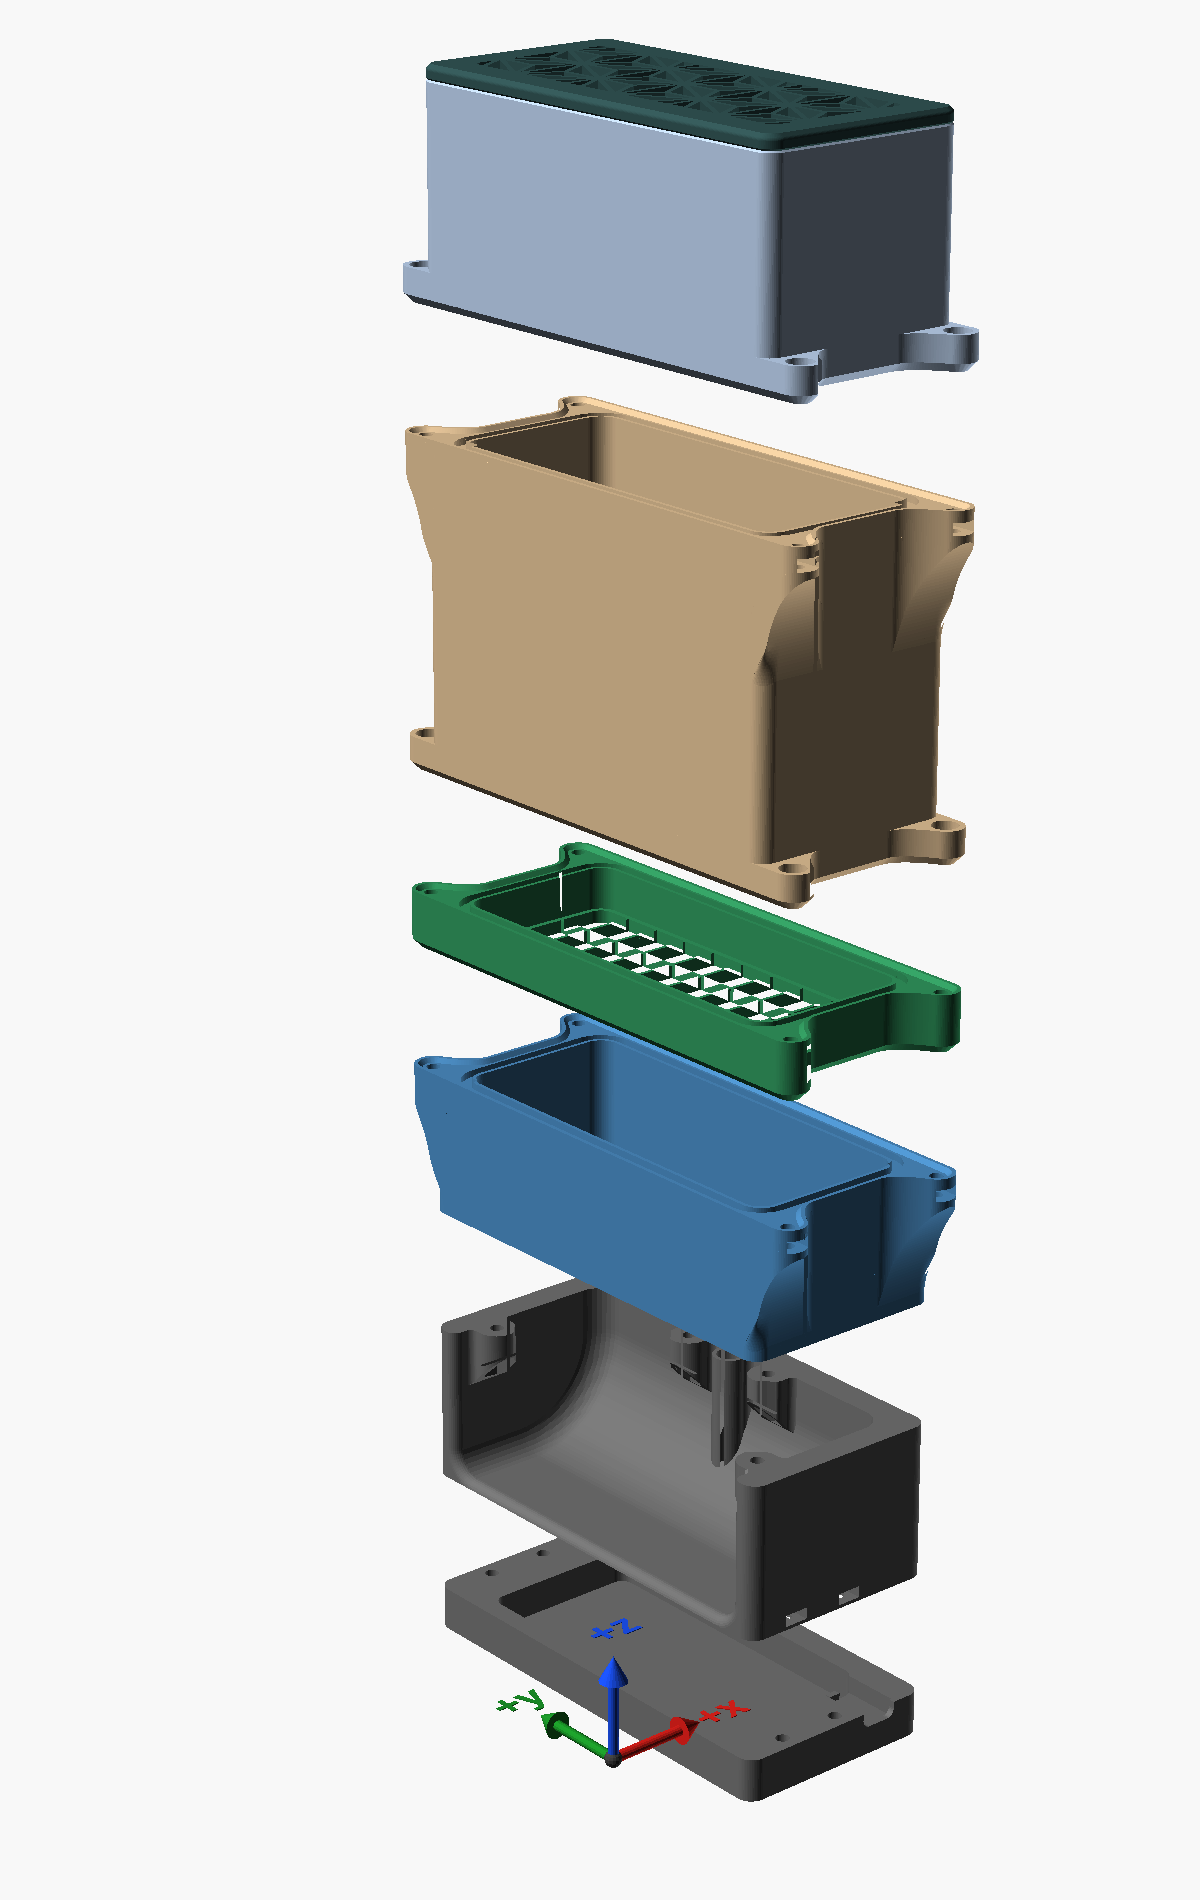
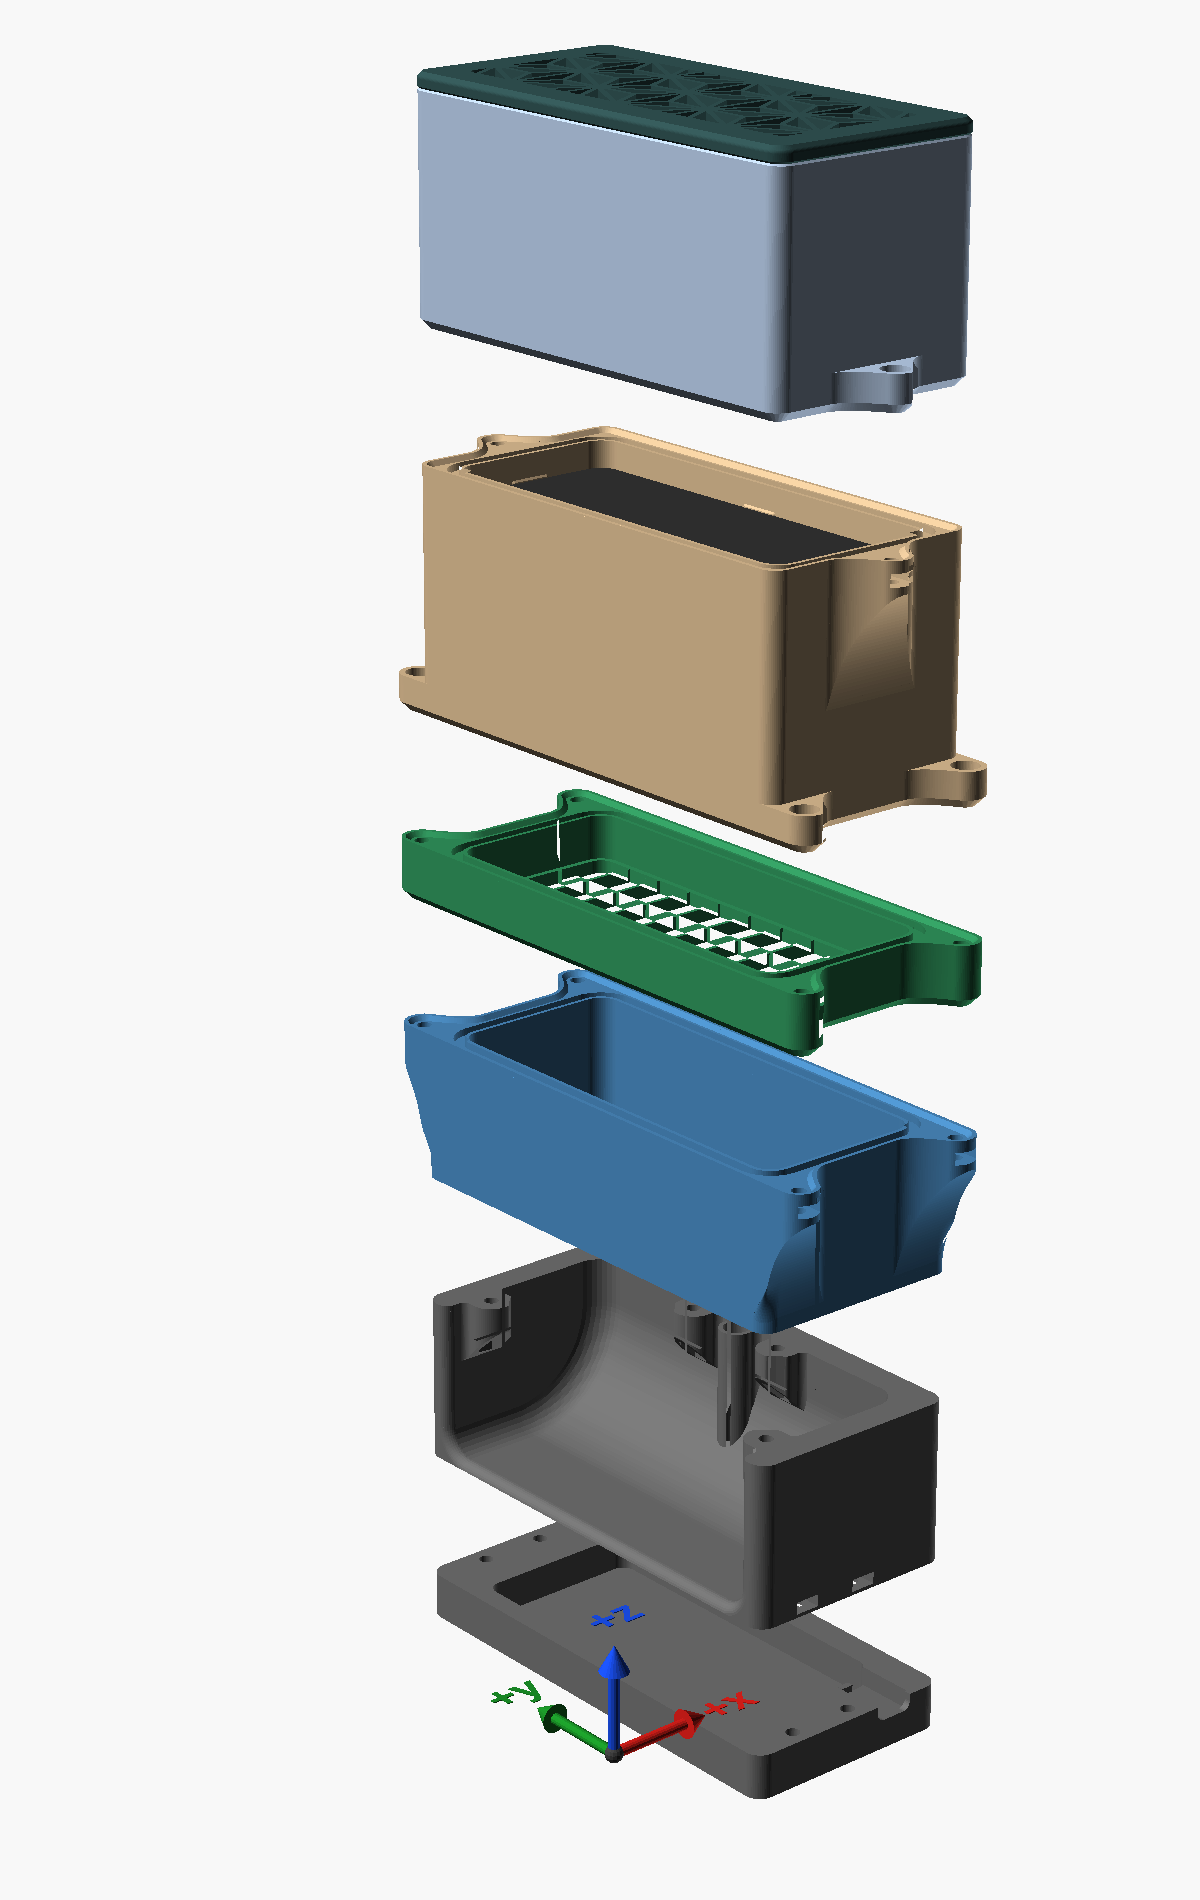
feat(bentobox): one top screw per end, a hex driver, a lower housing
D147: the top joint, the HEPA holder on the carbon housing, has one
screw in the middle of each end (top_tabs = "middle"), the corner tab's
boss and parabola moved to the middle; the lower joints keep their
corner tabs. Nothing now stands over the lower screws' heads, so the
carbon housing is 55 mm tall instead of 77.6 and the box 22.6 mm lower.

Q148: the screws are turned with a 2.5 mm hex screwdriver.
check_seal_access stands one on every head - a 75 mm blade, a 30 mm
handle - the lower screws' before the HEPA holder is on; its controls put
the top tabs back at the corners and shorten the blade to 30 mm.

The middle-tab collar shared the outline's corner round point for
point, and the housing's own top chamfer crossed the cut under it: the
tab band now adds only the tabs' zone, the outline's prism stops where
the collar starts, and the housing is drawn 1 mm past both cut faces.
The joint sample, sliced off the parts, now takes one screw and one nut.

Changed region(s): [[0.3083, 0.0, 0.8325, 0.9316], [0.5858, 0.9316, 0.6475, 0.9626]]

diff --git a/scripts/bentobox-checks.py b/scripts/bentobox-checks.py
@@ -86,7 +86,8 @@ CONTROLS = [
     ("check_auto_wires", [("wire_shift", "1.5")], "the wires moved 1.5 mm off the tube"),
     ("check_auto_air", [("post_clear_air", "false")], "the fan screws' posts left round, under the fans' openings"),
     # The sealed joints. collar_play narrows the upper parts' chamfers, not the collars; bead_side the grooves,
-    # not the beads; bracket_h reaches the carbon housing's top brackets down over the section's screws.
+    # not the beads. The top joint's tabs back at the corners stand over the lower joints' screws; a short blade
+    # brings the driver's handle down against the HEPA holder.
     ("check_seal_j1", [("collar_play", "-0.4")], "the section's chamfer cut back less than the fan section's collar"),
     ("check_seal_j2", [("collar_play", "-0.4")], "the carbon housing's chamfer, against the section's collar"),
     ("check_seal_j3", [("collar_play", "-0.4")], "the HEPA holder's chamfer, against the carbon housing's collar"),
@@ -94,7 +95,8 @@ CONTROLS = [
     ("check_seal_screws", [("screw_shift", "[1, 0]")], "the joints' screws moved 1 mm off their holes"),
     ("check_seal_nuts", [("nut_fit", "-0.3")], "the joints' nut slots made narrower and lower than a nut"),
     ("check_seal_nut_ways", [("nut_slot_out", "1")], "the joints' nut slots cut short of the tabs' ends"),
-    ("check_seal_access", [("bracket_h", "80")], "the carbon housing's brackets reaching down over the section's screws"),
+    ("check_seal_access", [("top_tabs", '"corners"')], "the top joint's tabs back at the corners, over the lower screws' heads"),
+    ("check_seal_access", [("driver", "[4, 30, 30]")], "a 30 mm blade: the driver's handle down against the HEPA holder"),
     # A missing original makes every intersection empty, which reads as a pass: its import's WARNING must fail it.
     ("check_section_carbon", UNSEALED + [("carbon_stl", '"original/missing.stl"')], "the housing's STL missing - must be reported, not passed"),
     ("check_cover_holder", [("hepa_in_grow", "-0.5")], "the HEPA holder's inside made narrower than the cover's plug"),

diff --git a/docs/bentobox-scrubber.md b/docs/bentobox-scrubber.md
@@ -12,8 +12,9 @@ the electronics, drawn from scratch to the Auto's measurements, with a tube down
 where the Auto has heat-set inserts, and a USB-C socket for its 12 V. The bay is a tray of its own, screwed on
 underneath.
 
-**Its joints under suction are sealed** (see *The sealed joints*): a TPU bead in a groove at each, and four
-screws in tabs at the corners, where the original has magnets.
+**Its joints under suction are sealed** (see *The sealed joints*): a TPU bead in a groove at each, and screws
+in tabs where the original has magnets - four at the corners for each of the two lower joints, one in the middle of
+each end for the top one - all turned with a hex screwdriver.
 
 **Its carbon is a bed in the housing** (see *The carbon*): the pellets poured onto the housing's floor, a
 honeycomb across its whole inside, 45 mm deep. The C-MAG stays an option.
@@ -63,10 +64,9 @@ holder off, 45 mm deep, to the mark in the middle of each inside wall - 184 cm³
 level them: the air takes the thinner side of a bed. To change them, the housing comes off the stack, its four
 M3 × 25 out, and tips out.
 
-**The housing keeps its height for now.** 6 mm of air over the bed is enough for the air from the HEPA holder's
-ledge to spread over it, which would make the housing 55 mm tall instead of 77.6 and the box 22.6 mm lower. But the
-joint's lower screws stand under the housing's own top tabs, and the brackets under those come down over their
-heads: lower, there is no room left to turn them (D147, open).
+**The housing is 55 mm tall**, where the original's is 77.6, so the box stands 22.6 mm lower: 6 mm of air over
+the bed is enough for the air from the HEPA holder's ledge to spread over it. It can be, because the top joint's
+screws are in the middle of each end (D147), clear of the lower joints' screws at the corners.
 
 **Why not the C-MAG.** The same airflow models as for the paper's pleats (see *How many pleats*), with the clamp at
 18 pleats and the middle grade:
@@ -242,39 +242,41 @@ housing are sealed:
   the tabs too, its inner face at 45 degrees; the upper part's bottom edge, tabs and all, is cut back at 45
   degrees to sit in it, 0.2 mm clear. It centres the parts, and it is a second barrier outside the bead. Both
   print without support.
-- **Four tabs and screws, where the magnets were.** At each corner a tab stands 9.4 mm past the end wall.
+- **Tabs and screws, where the magnets were.** The two lower joints have a tab at each corner; the top joint,
+  the HEPA holder on the carbon housing, one in the middle of each end (Alon, 9 Oct 2026: D147), so nothing stands
+  over the lower joints' screws, which go in first. Each tab stands 9.4 mm past the end wall.
   The tabs are seamless with the walls and floors: each part's outline is one shape, tabs and all, so a
-  tab's side runs straight on from the side face, its outline leaves the end wall along a parabola, tangent
-  to it, and its floor or top is the part's own. For that the originals' outsides are cut 0.05 mm inside
+  corner tab's side runs straight on from the side face, a tab's outline leaves the end wall along a parabola,
+  tangent to it - on both sides of a middle tab - and its floor or top is the part's own. For that the originals' outsides are cut 0.05 mm inside
   their own faces, a quarter of a layer, and their floors and tops at a sealed joint likewise. Under each
   nut's tab, a bracket whose face is a cubic in its height: tangent to the wall at its foot, 45 degrees at
-  the tab, so it prints without support. In the rounded corner under the tab it fills the corner smoothly,
-  so the side face runs on into the bracket's side. The fan section is shorter than a bracket, so its
+  the tab, so it prints without support. In the rounded corner under a corner tab it fills the corner
+  smoothly, so the side face runs on into the bracket's side. The fan section is shorter than a bracket, so its
   brackets run down to its bottom. Each nut slides in from the tab's end.
-- **The screws.** Four M3 × 12 through the HEPA holder's tabs into nuts in the carbon housing's. Four
+- **The screws.** Two M3 × 12 through the HEPA holder's tabs into nuts in the carbon housing's. Four
   M3 × 25 through the carbon housing's bottom tabs and pillars in the section into nuts in the fan
   section's: one screw at each corner holds both of the section's joints. Each head sinks flush into a
   counterbore in its tab, 0.2 mm under the top: the upper parts' tabs stand 8.2 mm, 5 mm of it under the
-  head.
+  head. They are socket heads, turned with a 2.5 mm hex screwdriver (Q148).
 
 ![The sealed joints pulled apart: the fan section, the section, the carbon housing and the HEPA holder, a bead ring over each lower part's groove, the screws](bentobox/joints.png)
 
 **Putting it together:** a bead ring in the groove on the fan section, the section and the carbon housing;
 a nut in each tab of the fan section and the carbon housing; the section on the fan section, the carbon
-housing on the section, and the four M3 × 25 down through them. The carbon housing's own top tabs and
-brackets stand over those screws; the checks keep at least 35 mm clear above each head, room to set the
-screw in, but not for a long straight driver: turn them with a hex key. Then the HEPA holder on the carbon
-housing and its four M3 × 12, and the cover on its magnets.
+housing on the section, and the four M3 × 25 down through them, with a 2.5 mm hex screwdriver, straight down:
+nothing stands over them. Then the HEPA holder on the carbon housing and its two M3 × 12, and the cover on its
+magnets. The checks stand a screwdriver with a 75 mm blade and a 30 mm handle on every head, straight up, the lower
+screws' before the HEPA holder is on, and find nothing in its way.
 
 The sheet in the section, the carbon and the HEPA come out by the same screws. Only the cover's joint keeps
 magnets: four in the HEPA holder's top and four in the cover.
 
 **Try one end first.** The bead's size and the seat's fit are first guesses, and the carbon housing is a
-7-hour print. The joint sample is one end of the joint between the carbon housing and the HEPA holder, sliced
-off the parts themselves: the carbon housing's top 12 mm, with its two nut tabs, and the HEPA holder's bottom
-10 mm, with its two counterbored tabs, 30 mm in from the end wall. With them on the plate is a block holding
-one fan nut's pocket as the base has it. Lay the TPU bead in the lower piece's groove, a nut in each tab, set
-the upper piece on in its collar and drive the two M3 × 12: the faces should come together on the bead,
+6-hour print. The joint sample is one end of the joint between the carbon housing and the HEPA holder, sliced
+off the parts themselves: the carbon housing's top 12 mm, with its nut tab, and the HEPA holder's bottom
+10 mm, with its counterbored tab, 30 mm in from the end wall. With them on the plate is a block holding
+one fan nut's pocket as the base has it. Lay the TPU bead in the lower piece's groove, the nut in its tab, set
+the upper piece on in its collar and drive the M3 × 12: the faces should come together on the bead,
 pressing it down, the chamfer should sit in the collar, and each head should end flush. Pull a nut into the
 block's seat with an M3 × 8 and take the screw out: the nut should stay.
 
@@ -398,15 +400,15 @@ samples-tpu` for the two sample plates.
 | Base | ASA | 1 | 3 h 25 m | 36 g |
 | Fan section | ASA | 1 | 3 h 42 m | 36 g |
 | Tray | ASA | 1 | 1 h 47 m | 20 g |
-| Carbon housing | ASA | 1 | 8 h 26 m | 76 g |
-| HEPA holder | ASA | 1 | 4 h 39 m | 45 g |
+| Carbon housing | ASA | 1 | 6 h 22 m | 57 g |
+| HEPA holder | ASA | 1 | 4 h 32 m | 44 g |
 | Cover | ASA | 1 | 1 h 53 m | 13 g |
 | Bead ring | TPU 95A | 3 | 9 m each | 1 g each |
-| Joint sample | ASA | 1 plate | 1 h 15 m | 11 g |
+| Joint sample | ASA | 1 plate | 1 h 7 m | 10 g |
 | Joint sample's bead | TPU 95A | 1 | 3 m | under 1 g |
 | Grommet | TPU 95A | 2 halves | 2 m | under 1 g |
 | Bottom sample | ASA | 1 plate | 45 m | 7 g |
-| Samples, ASA | ASA | 1 plate | 3 h 12 m | 26 g |
+| Samples, ASA | ASA | 1 plate | 3 h 5 m | 25 g |
 | Samples, TPU | TPU 95A | 1 plate | 5 m | under 1 g |
 
 Times and weights are PrusaSlicer's, at 0.2 mm with the house profile `0.2mm QUALITY @MK3 - no skirt, no
@@ -425,15 +427,16 @@ For the sealed joints:
 
 | Quantity | Item |
 |---|---|
-| 8 | M3 hex nut, ISO 4032 |
+| 6 | M3 hex nut, ISO 4032 |
 | 4 | M3 × 25 socket head cap screw, ISO 4762: the carbon housing and the section to the fan section |
-| 4 | M3 × 12 socket head cap screw, ISO 4762: the HEPA holder to the carbon housing |
+| 2 | M3 × 12 socket head cap screw, ISO 4762: the HEPA holder to the carbon housing |
 | 8 | 4 × 2 mm magnet: the cover's joint, four in the HEPA holder and four in the cover |
 
 With the C-MAG: 8 more 4 × 2 mm magnets, four in each half. Its parts, in ASA: the tray 2 h 16 m and 25 g, the
 lid 1 h 49 m and 21 g, the four grills on one plate 1 h 51 m and 11 g.
 
-For the joint sample, from the same stock: 3 M3 nuts, 2 M3 × 12 and 1 M3 × 8. For the bottom sample: 2 M3 nuts,
+For the joint sample, from the same stock: 2 M3 nuts, 1 M3 × 12 and 1 M3 × 8. Every screw is turned with a
+2.5 mm hex screwdriver, its blade 75 mm or longer. For the bottom sample: 2 M3 nuts,
 2 M3 × 12 and the USB-C trigger board.
 
 For the paper's clamp:
@@ -545,8 +548,8 @@ OPENSCAD="<the OpenSCAD nightly>" uv run scripts/bentobox-checks.py all
 
 For the sealed joints it stands each upper part on its lower one - flat on the land, its chamfer in the
 collar, tab on tab - lays each bead in its groove, runs each screw from its head to its tip through the tabs
-and the section's pillars, sets a nut in each slot and slides it out through the tab's end, and keeps the
-room over each screw's head clear. With `sealed=false` it checks the original's joints: the section against
+and the section's pillars, sets a nut in each slot and slides it out through the tab's end, and stands a hex
+screwdriver on each screw's head, straight up, with nothing in its way. With `sealed=false` it checks the original's joints: the section against
 the carbon housing above it and the fan section below it, a magnet across each joint through both parts'
 holes. It runs the air's way from the housing's floor - its honeycomb, or with the C-MAG its two openings - down through
 the section. It stands the cover on the HEPA holder, its plug in the holder's top, a magnet across the joint
@@ -563,7 +566,7 @@ the end face, and one in each fan screw's seat and draws it down its pocket and 
 beads of the end wall round each tray slot and its screw's hole, runs each screw from its head to its tip, and
 the wires down the tube, and the fans' air down into the base past the posts. Each must come out empty. Every check has a positive control,
 something broken on purpose that it must catch, and the run fails if one passes unnoticed: 37 fits and
-45 controls.
+46 controls.
 
 [`bentobox.params.scad`](../models/bentobox/bentobox.params.scad) holds the original's dimensions, measured
 by sectioning its STLs, and every setting of the section and of the paper's frame.
